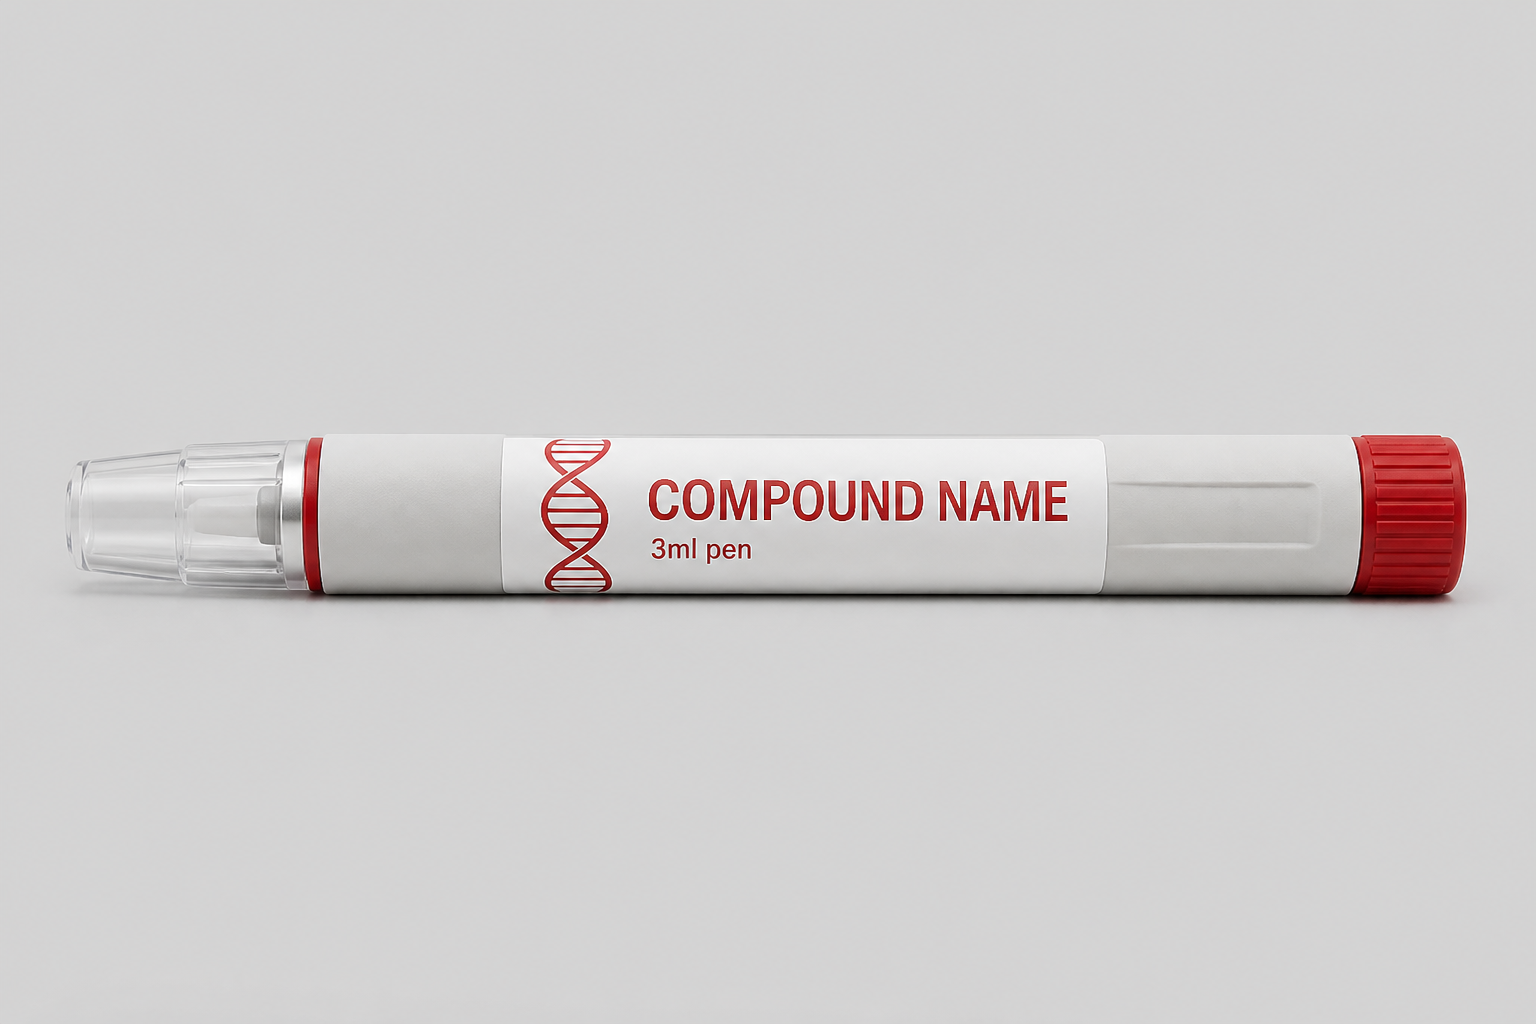
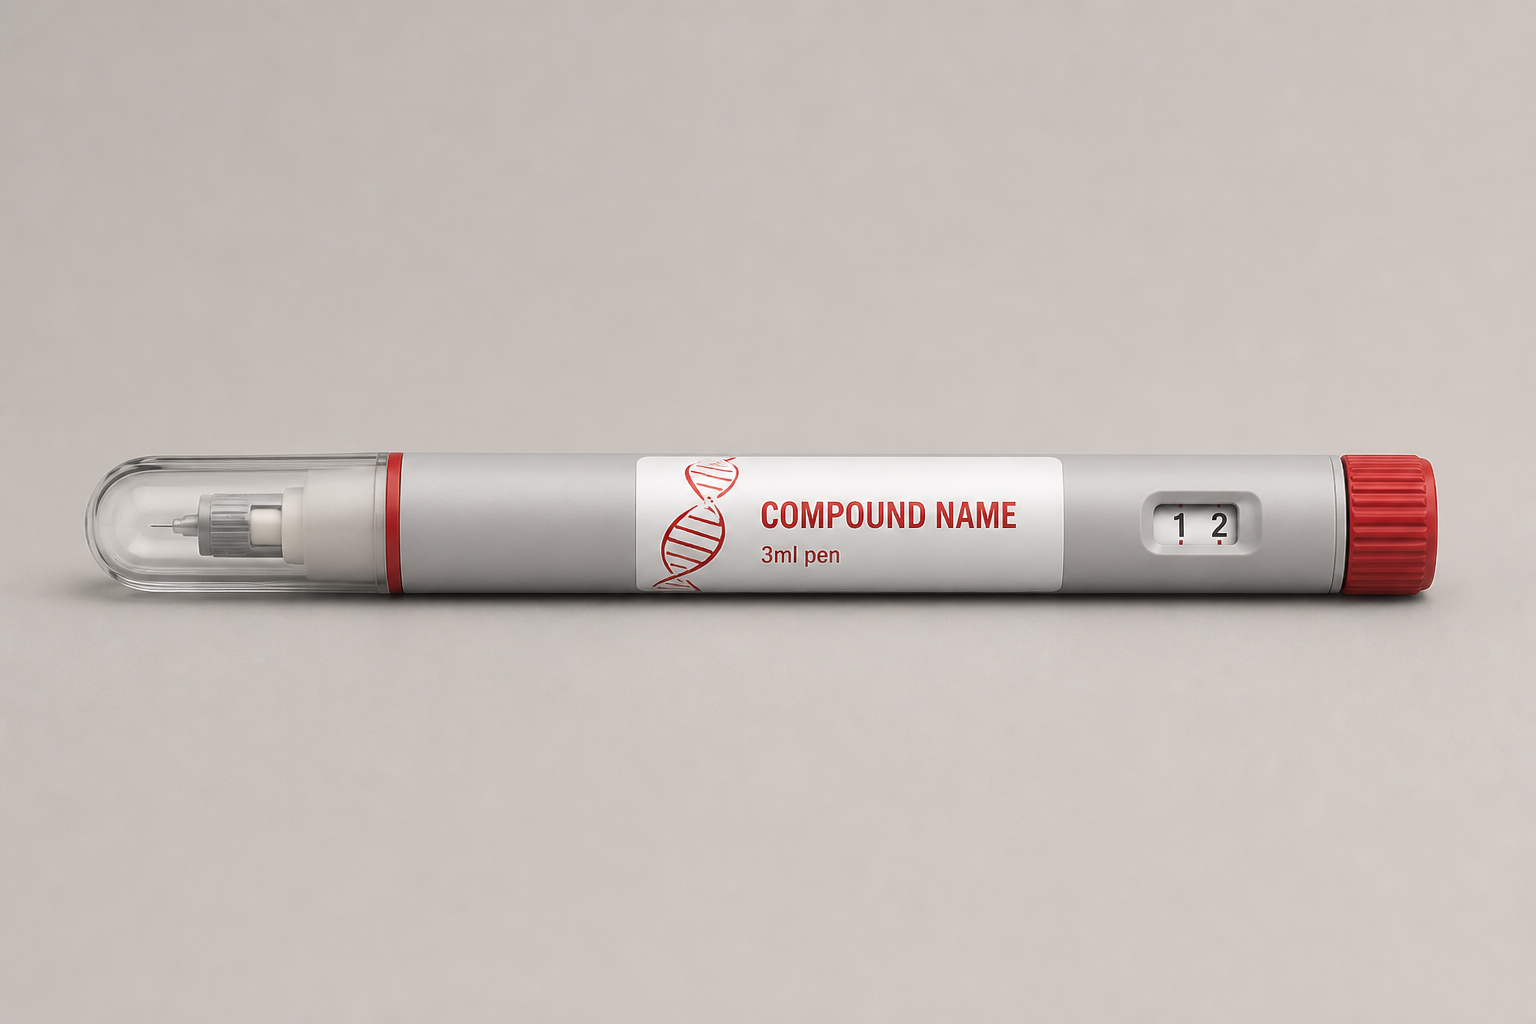
Use Drive Retatrutide pen as sleek master and add n8n pen branch
Replace cheap templates with isolated sleek blue/red pens derived from
the Drive master, and add node-by-node wiring for if_pen_scene,
grok_imagine_pen_edit, and merge_imagine_out.

diff --git a/marketing/n8n-image-gen-buffer-pen-nodes.md b/marketing/n8n-image-gen-buffer-pen-nodes.md
@@ -1,0 +1,112 @@
+# image_gen_buffer — pen branch (node-by-node)
+
+Workflow: `image_gen_buffer`  
+Insert immediately **before** existing `GROK_Imagine`.
+
+```text
+… → if_compliance (or current node that feeds GROK_Imagine)
+      → if_pen_scene
+           TRUE  → grok_imagine_pen_edit ─┐
+           FALSE → GROK_Imagine ──────────┼→ merge_imagine_out → Save_render_URL
+```
+
+Accent rule (already in pen-edit body):
+- BLUE: Semaglutide / Tirzepatide / Retatrutide
+- RED: all other peptides
+
+Reply **node 1 ok** after each node.
+
+---
+
+## Node 1 — `if_pen_scene`
+
+**Node type:** IF
+
+| Parameter | Value |
+|---|---|
+| Node name | `if_pen_scene` |
+| Conditions | 1 condition |
+| Combinator | AND |
+| Value 1 (fx ON) | `{{ $('Prep_day_variant').item.json.scene_category }}` |
+| Operation | is equal to |
+| Value 2 | `pen_3ml_scene` |
+
+**Why:** Pens go to Imagine **edits** (template lock). Lab/vial stay on generations.
+
+**Wire:**
+- Before: the node that currently feeds `GROK_Imagine` (usually `if_compliance` true, or `Parse_Grok`)
+- After TRUE: `grok_imagine_pen_edit` (add in Node 2)
+- After FALSE: existing `GROK_Imagine`
+- Disconnect the old direct wire into `GROK_Imagine` from the before-node
+
+**Test:** Execute once. TRUE when `scene_category` is `pen_3ml_scene`; FALSE for `lab_scene` / `vial_10ml_scene`.
+
+---
+
+## Node 2 — `grok_imagine_pen_edit`
+
+**Node type:** HTTP Request  
+**Action:** DUPLICATE `GROK_Imagine`, then rename and change URL + body
+
+| Parameter | Value |
+|---|---|
+| Node name | `grok_imagine_pen_edit` |
+| Method | POST |
+| URL | `https://api.x.ai/v1/images/edits` |
+| Authentication | Same credential as `GROK_Imagine` (xAI Header Auth / Bearer) |
+| Send Headers | ON |
+| Header | `Content-Type` = `application/json` |
+| Send Body | ON |
+| Body Content Type | JSON / Raw JSON |
+| Specify Body | Using Expression (fx ON) |
+
+**Body (fx ON) — paste entire file:**  
+https://raw.githubusercontent.com/PalmBeach-Vitality/pep/cursor/imagine-2-0-7786/marketing/n8n-grok-imagine-body-pen-edit.txt
+
+**Why:** Edits the sleek blue/red template; only label name + cleanroom scene change.
+
+**Wire:**
+- Before: `if_pen_scene` TRUE
+- After: `merge_imagine_out` (Node 3)
+
+**Test:** Pin a pen row, execute. Response should include an image URL. Pen hardware matches template; label shows today’s compound.
+
+---
+
+## Node 3 — `merge_imagine_out`
+
+**Node type:** Merge
+
+| Parameter | Value |
+|---|---|
+| Node name | `merge_imagine_out` |
+| Mode | Append |
+| Number of Inputs | 2 |
+| Input 1 | `grok_imagine_pen_edit` |
+| Input 2 | `GROK_Imagine` |
+
+**Why:** One downstream path into `Save_render_URL` / Buffer.
+
+**Wire:**
+- Input 1: `grok_imagine_pen_edit`
+- Input 2: `GROK_Imagine`
+- After: existing `Save_render_URL` (move the old `GROK_Imagine` → `Save_render_URL` wire here)
+
+**Test:** Lab/vial run still reaches `Save_render_URL`. Pen run also reaches `Save_render_URL`.
+
+---
+
+## Existing node edit — `GROK_Imagine`
+
+Do **not** rename. Re-paste generations body (lab/vial + pen fallback):
+
+https://raw.githubusercontent.com/PalmBeach-Vitality/pep/cursor/imagine-2-0-7786/marketing/n8n-grok-imagine-body-feed.txt
+
+URL stays: `https://api.x.ai/v1/images/generations`
+
+---
+
+## Templates used by Node 2
+
+- Blue: https://raw.githubusercontent.com/PalmBeach-Vitality/pep/cursor/imagine-2-0-7786/marketing/assets/pbv-research-pen-template-blue.png
+- Red: https://raw.githubusercontent.com/PalmBeach-Vitality/pep/cursor/imagine-2-0-7786/marketing/assets/pbv-research-pen-template-red.png
